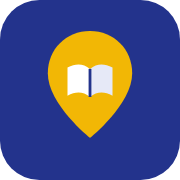
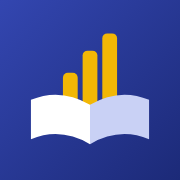
Nova identidade visual: livro com barras que sobem e selo 'já'
Claude-Session: https://claude.ai/code/session_01Chi5qv7sLUGHy5xHRxmQ7R

diff --git a/public/index.html b/public/index.html
@@ -74,9 +74,8 @@ symbol .da{fill:var(--c1, var(--accent))} symbol .db{fill:var(--c2, color-mix(in
   display:flex; align-items:center; gap:14px; flex-wrap:wrap}
 .brand{display:flex; align-items:center; gap:12px; margin-right:auto; text-decoration:none; color:inherit}
 .brand .logo{width:44px; height:44px; flex:none}
-.brand b{font-family:var(--f-display); font-weight:800; font-size:28px; letter-spacing:-.03em; line-height:1; color:var(--accent); white-space:nowrap}
-.brand b em{font-style:normal; color:var(--lapis-ink)}
-.brand small{display:block; color:var(--muted); font-size:12px; margin-top:3px; font-weight:500}
+.brand b{font-family:var(--f-display); font-weight:800; font-size:30px; letter-spacing:-.035em; line-height:1; color:var(--accent); white-space:nowrap}
+.brand b em{font-style:normal; display:inline-block; background:var(--lapis); color:#1A2462; padding:.06em .2em .1em; border-radius:.22em; transform:rotate(-5deg) translateY(-.04em); margin-left:.06em; box-shadow:0 .06em 0 rgb(0 0 0 / .18)}
 .views{display:flex; gap:2px}
 .views button{border:0; background:transparent; display:flex; align-items:center; gap:12px; padding:10px 12px; border-radius:10px; text-align:left; font-weight:500; font-size:15px; color:var(--ink); --c1:var(--accent)}
 .views button:hover{background:var(--sel)}
@@ -405,8 +404,8 @@ td.ruim{color:var(--bad); font-weight:700}
   .app{grid-template-rows:auto auto minmax(0,1fr) auto}
   .top{background:var(--faixa); border-bottom:0; color:#fff; padding-block:10px}
   body::before{background:var(--faixa)}
-  .top .brand b{color:#fff} .top .brand b em{color:var(--lapis)} .top .brand small{color:rgb(255 255 255 / .75)}
-  .brand .logo{width:38px; height:38px} .brand b{font-size:25px}
+  .top .brand b{color:#fff} .top .brand b em{background:#F2B705; color:#1A2462} .top .brand .logo{border-radius:10px; box-shadow:0 0 0 1.5px rgb(255 255 255 / .35)}
+  .brand .logo{width:38px; height:38px} .brand b{font-size:26px}
   .top .views,.top .menu-tit,.top .rodape{display:none}
   .field.grow{flex:1 1 calc(100% - 110px)}
   .field.cod{order:4; flex:0 0 150px} .field.cod input{width:100%}
@@ -443,7 +442,7 @@ td.ruim{color:var(--bad); font-weight:700}
 </style>
 
 <svg width="0" height="0" style="position:absolute" aria-hidden="true" focusable="false"><defs>
-  <symbol id="d-logo" viewBox="0 0 88 88"><path d="M44 4C26 4 12 18 12 36c0 23 32 48 32 48s32-25 32-48C76 18 62 4 44 4z" fill="#F2B705"/><path d="M27 31c6-3 12-3 17 1v21c-5-4-11-4-17-1z" fill="#FFFFFF"/><path d="M61 31c-6-3-12-3-17 1v21c5-4 11-4 17-1z" fill="#E6E9F7"/><path d="M44 32v21" stroke="#23338C" stroke-width="2.4"/></symbol>
+  <symbol id="d-logo" viewBox="0 0 64 64"><defs><linearGradient id="g-logo" x1="0" y1="0" x2="1" y2="1"><stop offset="0" stop-color="#3346B0"/><stop offset="1" stop-color="#1C2A78"/></linearGradient></defs><rect width="64" height="64" rx="16" fill="url(#g-logo)"/><rect x="21" y="25" width="6" height="16" rx="2" fill="#F2B705"/><rect x="29" y="16" width="6" height="25" rx="2" fill="#F2B705"/><rect x="37" y="9" width="6" height="32" rx="2" fill="#F2B705"/><path d="M8 36q12-5 24 2v16q-12-7-24-2z" fill="#fff"/><path d="M56 36q-12-5-24 2v16q12-7 24-2z" fill="#C9D1F5"/></symbol>
   <symbol id="d-escola" viewBox="0 0 24 24"><path class="db" d="M3 10.5 12 5l9 5.5V20H3z"/><path class="da" d="M12 2.5 1.5 9l1.2 1.7L12 5l9.3 5.7L22.5 9zM10 14h4v6h-4z"/><path class="da" d="M5 12h3v3H5zm11 0h3v3h-3z"/></symbol>
   <symbol id="d-painel" viewBox="0 0 24 24"><rect class="da" x="3" y="3" width="8" height="8" rx="2"/><rect class="db" x="13" y="3" width="8" height="8" rx="2"/><rect class="db" x="3" y="13" width="8" height="8" rx="2"/><rect class="da" x="13" y="13" width="8" height="8" rx="2"/></symbol>
   <symbol id="d-aprend" viewBox="0 0 24 24"><rect class="db" x="3" y="12" width="4" height="9" rx="1"/><rect class="da" x="10" y="7" width="4" height="14" rx="1"/><rect class="db" x="17" y="3" width="4" height="18" rx="1"/></symbol>
@@ -458,7 +457,7 @@ td.ruim{color:var(--bad); font-weight:700}
   <header class="top">
     <a class="brand" href="#painel" aria-label="Educa Já, início">
       <svg class="logo" aria-hidden="true"><use href="#d-logo"/></svg>
-      <span><b>Educa <em>Já</em></b><small>Educação do seu município</small></span>
+      <b>educa <em>já</em></b>
     </a>
     <nav class="views" aria-label="Seções">
       <button type="button" data-view="painel" aria-pressed="true"><svg class="dico" aria-hidden="true"><use href="#d-painel"/></svg><span>Painel</span></button>

diff --git a/src/index.src.html b/src/index.src.html
@@ -66,9 +66,8 @@ symbol .da{fill:var(--c1, var(--accent))} symbol .db{fill:var(--c2, color-mix(in
   display:flex; align-items:center; gap:14px; flex-wrap:wrap}
 .brand{display:flex; align-items:center; gap:12px; margin-right:auto; text-decoration:none; color:inherit}
 .brand .logo{width:44px; height:44px; flex:none}
-.brand b{font-family:var(--f-display); font-weight:800; font-size:28px; letter-spacing:-.03em; line-height:1; color:var(--accent); white-space:nowrap}
-.brand b em{font-style:normal; color:var(--lapis-ink)}
-.brand small{display:block; color:var(--muted); font-size:12px; margin-top:3px; font-weight:500}
+.brand b{font-family:var(--f-display); font-weight:800; font-size:30px; letter-spacing:-.035em; line-height:1; color:var(--accent); white-space:nowrap}
+.brand b em{font-style:normal; display:inline-block; background:var(--lapis); color:#1A2462; padding:.06em .2em .1em; border-radius:.22em; transform:rotate(-5deg) translateY(-.04em); margin-left:.06em; box-shadow:0 .06em 0 rgb(0 0 0 / .18)}
 .views{display:flex; gap:2px}
 .views button{border:0; background:transparent; display:flex; align-items:center; gap:12px; padding:10px 12px; border-radius:10px; text-align:left; font-weight:500; font-size:15px; color:var(--ink); --c1:var(--accent)}
 .views button:hover{background:var(--sel)}
@@ -397,8 +396,8 @@ td.ruim{color:var(--bad); font-weight:700}
   .app{grid-template-rows:auto auto minmax(0,1fr) auto}
   .top{background:var(--faixa); border-bottom:0; color:#fff; padding-block:10px}
   body::before{background:var(--faixa)}
-  .top .brand b{color:#fff} .top .brand b em{color:var(--lapis)} .top .brand small{color:rgb(255 255 255 / .75)}
-  .brand .logo{width:38px; height:38px} .brand b{font-size:25px}
+  .top .brand b{color:#fff} .top .brand b em{background:#F2B705; color:#1A2462} .top .brand .logo{border-radius:10px; box-shadow:0 0 0 1.5px rgb(255 255 255 / .35)}
+  .brand .logo{width:38px; height:38px} .brand b{font-size:26px}
   .top .views,.top .menu-tit,.top .rodape{display:none}
   .field.grow{flex:1 1 calc(100% - 110px)}
   .field.cod{order:4; flex:0 0 150px} .field.cod input{width:100%}
@@ -435,7 +434,7 @@ td.ruim{color:var(--bad); font-weight:700}
 </style>
 
 <svg width="0" height="0" style="position:absolute" aria-hidden="true" focusable="false"><defs>
-  <symbol id="d-logo" viewBox="0 0 88 88"><path d="M44 4C26 4 12 18 12 36c0 23 32 48 32 48s32-25 32-48C76 18 62 4 44 4z" fill="#F2B705"/><path d="M27 31c6-3 12-3 17 1v21c-5-4-11-4-17-1z" fill="#FFFFFF"/><path d="M61 31c-6-3-12-3-17 1v21c5-4 11-4 17-1z" fill="#E6E9F7"/><path d="M44 32v21" stroke="#23338C" stroke-width="2.4"/></symbol>
+  <symbol id="d-logo" viewBox="0 0 64 64"><defs><linearGradient id="g-logo" x1="0" y1="0" x2="1" y2="1"><stop offset="0" stop-color="#3346B0"/><stop offset="1" stop-color="#1C2A78"/></linearGradient></defs><rect width="64" height="64" rx="16" fill="url(#g-logo)"/><rect x="21" y="25" width="6" height="16" rx="2" fill="#F2B705"/><rect x="29" y="16" width="6" height="25" rx="2" fill="#F2B705"/><rect x="37" y="9" width="6" height="32" rx="2" fill="#F2B705"/><path d="M8 36q12-5 24 2v16q-12-7-24-2z" fill="#fff"/><path d="M56 36q-12-5-24 2v16q12-7 24-2z" fill="#C9D1F5"/></symbol>
   <symbol id="d-escola" viewBox="0 0 24 24"><path class="db" d="M3 10.5 12 5l9 5.5V20H3z"/><path class="da" d="M12 2.5 1.5 9l1.2 1.7L12 5l9.3 5.7L22.5 9zM10 14h4v6h-4z"/><path class="da" d="M5 12h3v3H5zm11 0h3v3h-3z"/></symbol>
   <symbol id="d-painel" viewBox="0 0 24 24"><rect class="da" x="3" y="3" width="8" height="8" rx="2"/><rect class="db" x="13" y="3" width="8" height="8" rx="2"/><rect class="db" x="3" y="13" width="8" height="8" rx="2"/><rect class="da" x="13" y="13" width="8" height="8" rx="2"/></symbol>
   <symbol id="d-aprend" viewBox="0 0 24 24"><rect class="db" x="3" y="12" width="4" height="9" rx="1"/><rect class="da" x="10" y="7" width="4" height="14" rx="1"/><rect class="db" x="17" y="3" width="4" height="18" rx="1"/></symbol>
@@ -450,7 +449,7 @@ td.ruim{color:var(--bad); font-weight:700}
   <header class="top">
     <a class="brand" href="#painel" aria-label="Educa Já, início">
       <svg class="logo" aria-hidden="true"><use href="#d-logo"/></svg>
-      <span><b>Educa <em>Já</em></b><small>Educação do seu município</small></span>
+      <b>educa <em>já</em></b>
     </a>
     <nav class="views" aria-label="Seções">
       <button type="button" data-view="painel" aria-pressed="true"><svg class="dico" aria-hidden="true"><use href="#d-painel"/></svg><span>Painel</span></button>

diff --git a/public/sw.js b/public/sw.js
@@ -1,6 +1,6 @@
 // Educa Já — service worker: o app abre sem internet com os últimos dados vistos.
 // Rede primeiro (com cache: "no-cache" para conferir versão nova a cada abertura); cache se offline.
-const VERSAO = "educaja-v20";
+const VERSAO = "educaja-v21";
 const BASE = ["./", "index.html", "manifest.webmanifest", "icon.svg", "icon-192.png", "icon-512.png", "apple-touch-icon.png",
   "data/municipios.json", "data/escolas/meta.json"];
 
